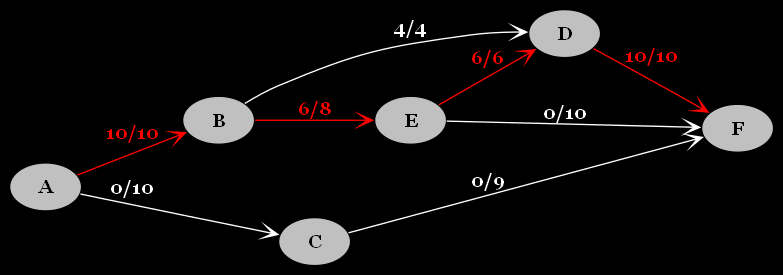
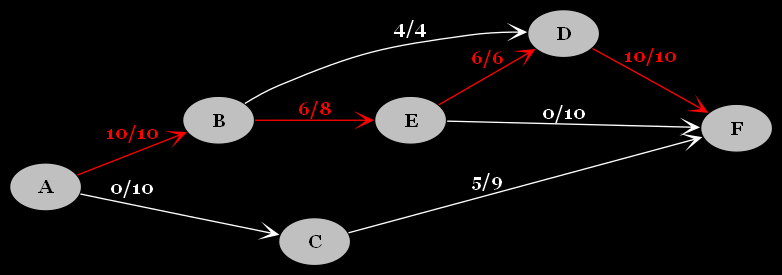
fixed errors

diff --git a/main.py b/main.py
@@ -12,11 +12,11 @@ def on_leave(event):
     event.widget['fg']="white"
 
 class ImageViewer:
-    def __init__(self, root, images, maxFlow):
+    def __init__(self, root, images, maxFlows):
         self.root = root
         self.images = images
         self.current_index = 0
-        self.maxFlow=maxFlow
+        self.maxFlows=maxFlows
 
         self.root.wm_iconphoto(False, tk.PhotoImage(file='icon.png'))
         self.root.title('Ford-Fulkerson')
@@ -38,14 +38,18 @@ class ImageViewer:
                                 )
         combostyle.theme_use('combostyle') 
 
+        self.heading = tk.Label(self.root, text="FORD FULKERSON ALGORITHM", font=("Century Gothic",32), bg="black", fg="white")
+        
+        self.heading2Text=tk.StringVar()
+        self.heading2Text.set('Current Flow: ' + str(maxFlows[0]))
+        self.heading2Label=tk.Label(self.root,  textvariable=self.heading2Text, font=("Century Gothic", 16), bg="black", fg="white")
+            
         self.next_button = tk.Button(self.root, text="Next", command=self.show_next_image)    
         self.next_button = tk.Button(self.root, text="Next", font=("Century Gothic", 12), command=self.show_next_image, bg="black", fg="white", borderwidth=2, width=15)
-        self.heading = tk.Label(self.root, text="FORD FULKERSON ALGORITHM", font=("Century Gothic",32), bg="black", fg="white")
-        self.heading2Label=tk.Label(self.root, text="Maximized Flow: " + str(self.maxFlow), font=("Century Gothic", 16), bg="black", fg="white")
-            
-        self.heading.place(relx=0.5, y=50, anchor='center')
         
-        self.next_button.place(relx=0.5, y=120, anchor='center')
+        self.heading.place(relx=0.5, y=50, anchor='center')
+        self.heading2Label.place(relx=0.5, y=110, anchor="center")
+        self.next_button.place(relx=0.5, y=150, anchor='center')
         
         self.next_button.bind("<Enter>", on_enter)
         self.next_button.bind("<Leave>", on_leave)
@@ -61,18 +65,18 @@ class ImageViewer:
         self.image_label.config(image=self.tk_image)
 
     def show_next_image(self):
-        """Display the next image in the list."""
         self.current_index = (self.current_index + 1)
         self.show_image()
+        self.heading2Text.set("Current Flow: " + str(self.maxFlows[self.current_index]))
         if self.current_index>=len(self.images)-1:
+            self.heading2Text.set("Maximum Flow: " + str(self.maxFlows[self.current_index-1]))
             self.next_button.destroy()    
-            self.heading2Label.place(relx=0.5, y=120, anchor="center")
 
 if __name__ == "__main__":
     graph = {
         'A': [False,['B',10,0],['C',10,0]],
         'B': [False,['D',4,0],['E',8,0]],
-        'C': [False,['F',9,0]],
+        'C': [False,['F',9,5]],
         'D': [False,['F',10,0]],
         'E': [False,['D', 6,0],['F',10,0]],
         'F': [False]
@@ -82,8 +86,8 @@ if __name__ == "__main__":
     image_files = []
     
     obj = FordFulkersonAlgorithm(src, dest, graph)
-    maxFlow= obj.maximumFlow()
-    print('Maximum Flow: ', maxFlow)
+    maxFlows= obj.maximumFlow()
+    print('Maximum Flows: ', maxFlows)
     j = 0
     for i in obj.augPathsGraph:
         if not os.path.exists('Graphs'):
@@ -95,6 +99,6 @@ if __name__ == "__main__":
 
     root = tk.Tk()
 
-    viewer = ImageViewer(root, image_files, maxFlow)
+    viewer = ImageViewer(root, image_files, maxFlows)
 
     root.mainloop()

diff --git a/fordFulkerson.py b/fordFulkerson.py
@@ -108,25 +108,36 @@ class FordFulkersonAlgorithm:
     def maximumFlow(self):
         self.augumentedPaths(self.src, self.dest, self.graph)
         maxFlow = 0
+        flows=[]
+        # finding initial flow
+        for node, edges  in self.graph.items():
+            for i in range(1,len(edges)):
+                if(edges[i][0]==self.dest):
+                    maxFlow+=edges[i][2]
+        flows.append(maxFlow)
+        
         for p in self.augPaths:
             mini = []
             for j in range(1, len(p)):
-                mini.append(p[j][1])
+                mini.append(p[j][1]-p[j][2])
+                # mini.append(p[j][1])
             mini = min(mini)
             if self.checkPath(p, self.graph, mini):
                 maxFlow += mini
+                flows.append(maxFlow)
                 for j in range(len(p)-1):
                     self.updateWeigth(p[j][0] , p[j+1][0],mini)
                 self.createGraph(self.graph, p)
         self.createGraph(self.graph,None,1)
-        return maxFlow
+        flows.append(flows[-1]) #adding max flow to the last element again
+        return flows
 
 
 if __name__ == '__main__':
     graph = {
     'A': [False,['B',10,0],['C',10,0]],
     'B': [False,['D',4,0],['E',8,0]],
-    'C': [False,['F',9,0]],
+    'C': [False,['F',9,5]],
     'D': [False,['F',10,0]],
     'E': [False,['D', 6,0],['F',10,0]],
     'F': [False]
@@ -134,7 +145,7 @@ if __name__ == '__main__':
     src = 'A'
     dest = 'F'
     obj = FordFulkersonAlgorithm(src, dest, graph)
-    print( "Maximum Flow = ", obj.maximumFlow())
+    print( "Maximum Flow = ", obj.maximumFlow()[-1])
 
 
     # print graphs
